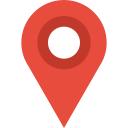
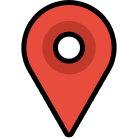
Pin Identifier
border

diff --git a/map.html b/map.html
@@ -248,13 +248,13 @@
       function changePin(n){
         var dots = document.getElementsByClassName('pinImg');
         for (i = 0; i < dots.length; i++) {
-          /*$($('.pinImg')[i]).attr('src', 'images/pin.png');*/
+          $($('.pinImg')[i]).attr('src', 'images/pin.png');
           $($('.pinImg')[i]).attr('width', '50');
           $($('.pinImg')[i]).attr('height', '50');
           $($('.pinImg')[i]).attr('style', 'right:12px');
           
-        }/*
-        $($('.pinImg')[n]).attr('src', 'images/pin-chosen.png');*/
+        }
+        $($('.pinImg')[n]).attr('src', 'images/pin-chosen.png');
         $($('.pinImg')[n]).attr('width', '70');
         $($('.pinImg')[n]).attr('height', '70');
         $($('.pinImg')[n]).attr('style', 'right: 22px; bottom: 20px;');
